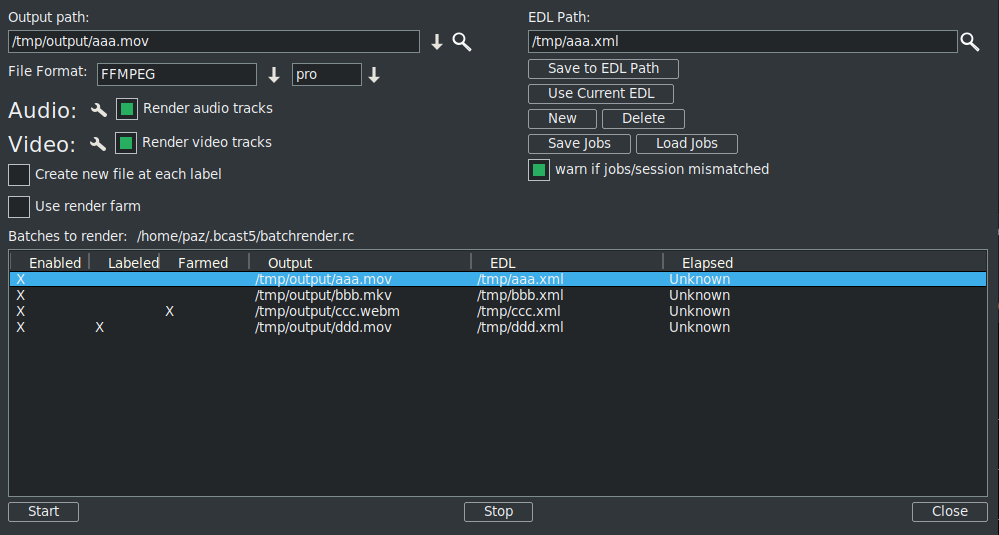
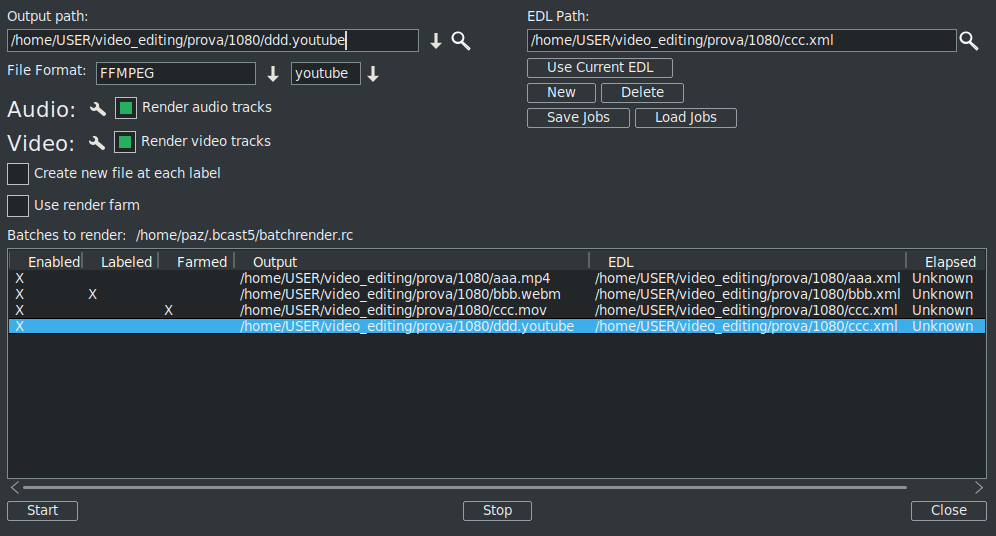
Andrea reworked Batch Render for changes + minor fixes

Changed region(s): [[0.0, 0.0, 1.0, 1.0], [0.5291, 0.0, 1.0, 0.3888], [0.4357, 0.0598, 0.4669, 0.0897]]

diff --git a/parts/Rendering.tex b/parts/Rendering.tex
@@ -693,7 +693,7 @@ a more efficient method of rendering. To use this feature you need to
 understand certain concepts.
 
 \begin{enumerate}
-	\item You must define a list of Batches (\textit{Job} \index{job}) before starting the rendering. This is created using the \textit{New} button and displayed in \textit{Batches to Render} dialog.
+	\item  You must define a list of Batches (\textit{Job} \index{job}) before starting the rendering. This is created using the \textit{New} button and displayed in \textit{Batches to Render} dialog.
 	\item Each batch consists of a source project already created in \CGG{}, e.g. \texttt{aaa.xml}, to which we assign the rendering parameters.
 	\begin{itemize}
 		\item to associate \texttt{aaa.xml} to the batch we use the \textit{EDL Path} input field.
@@ -732,7 +732,7 @@ called \textit{Batches to render}.  Above this are the configuration
 parameters for a single batch; a batch is simply a pairing of a
 project file with a choice of output file and render settings.
 
-Set the \textit{Output path}, \textit{File format}, \textit{Audio},
+It may be advisable to start with a \textit{Delete} so you don't have any problems. Set the \textit{Output path}, \textit{File format}, \textit{Audio},
 \textit{Video}, and \textit{Create new file at each label}
 parameters as if you were rendering a single file.  These parameters
 apply to only one batch.  In addition to the standard rendering
@@ -772,7 +772,25 @@ follows:
   job.
 \item[Elapsed:] the amount of time taken to render the batch if
   finished.  If field is empty, it did not run.
-\end{description} To start rendering from the first enabled batch,
+\end{description} 
+
+The \texttt{File $\rightarrow$ Batch Render} pulldown brings up the
+Batch Render window to be used for batch rendering as well as DVD/BD
+creation.  There are some additional buttons that can save time and
+mistakes.  These are described next.
+
+\begin{description}
+	\item[Save Jobs] when you have set up the batch jobs the way you
+	want and you think you may have to run them more than once, it is
+	beneficial to save the jobs for later use so you easily run them
+	again.
+	\item[Load Jobs] reload a previous set of saved jobs.  This can come
+	in handy if you did not have the time to render them when you
+	originally set them up, if you need to rerun, or if you got
+	interrupted.
+\end{description}
+
+To start rendering from the first enabled batch,
 hit \textit{Start}.  Once rendering, the main window shows the
 progress of the batch. After each batch finishes, the elapsed column
 in the batch list is updated and the next batch is rendered until
@@ -798,6 +816,84 @@ program, execute:
 \texttt{batchjob.xml}.  When invoked with these parameters, \CGG{}
 will start up and perform the rendering jobs in that list, without
 creating its usual windows.
+
+\subsection{Advanced features}%
+\label{sub:advanced_features}
+\index{batch rendering!more options}
+
+\textbf{Warning}: one of these advanced functions overwrites the original EDL, which will then be lost!
+
+Although the operation of Batch Rendering in \CGG{} is similar to that of other NLEs, there is one big difference that we need to take into account. The render setup is not done on a project-by-project basis, which are then brought into the Batch window to be rendered automatically. The setup must be done in the Batch rendering window, where various projects are loaded and set up. In the case of similar projects, derived from a single EDL with some variation, this mode offers the possibility of altering the projects without having to open each individual project, make the changes, set up the rendering, save and import into the Batch window. The procedure is to select the batch we want to modify in the Batches to render window; operate on the currently open timeline (even if it does not correspond to the one we want to modify) making the desired changes and then press the \textit{Save to EDL path} button. Thus the chosen batch, while retaining its original name, will now contain the modified project. Since this possibility destroys the original EDL overwriting it with the modified one, you must be very careful. This procedure is convenient in case the batches are similar, i.e. they are variations of the same EDL, where we want to experiment with other effects, other output formats or when trying out various cuts of a DVD/BD before the final production. It might also be useful to use an \textit{active region} of the timeline, so as to speed up rendering times but still have an indicative result for comparison. Instead operating on different projects, we can do a \textit{save as...} of the project on the timeline to have a new EDL with a new name and then replace it with the batch selected in the joblist using the \textit{Use Current EDL} button. The new project (with its name) overwrites the original project.
+
+The \textit{Save to EDL Path} and \textit{Use Current EDL} buttons
+can be valuable tools for advanced usage or for developers doing
+testing.  Description of how you can expect them to work will help
+to illustrate how to take advantage of their capabilities (figure~\ref{fig:batch-advanced}):
+
+\begin{figure}[htpb] \centering
+	\includegraphics[width=0.7\linewidth]{batch-advanced.png}
+	\caption{New Buttons with Unsafe GUI in batchrender}
+	\label{fig:batch-advanced}
+\end{figure}
+
+
+\begin{description}
+\item[Save to EDL Path] Warning: this function overwrites the contents of the original EDL with new data, keeping the name of the original. If we don't know exactly what we're doing we may lose the original project. If you have made a change to the EDL, use
+  this button to save the changes so that they will be used in the
+  render operation.  Although you can get the same results by using
+  \texttt{File $\rightarrow$ Save\dots}, this capability was initially
+  added to assist developers in testing the batch jobs needed to
+  create dvd/bluray media as it keeps the work focused in a single
+  window and retains the original job name.  An example --you have
+  everything all set up with a new job in the Batch Render window
+  using \texttt{generic.xml} for the EDL path and with a job name of
+  \texttt{original\_name.xml}.  Then you realize that you forgot to
+  cut out a section in the media that is not wanted in the final
+  product.  You can cut that out and then \textit{Save to EDL Path} so
+  your change will be in effect for the rendering.  Without this
+  button, you would be using the EDL you started with and the cut
+  would be ignored.  Alternatively, if the cut changes are saved via
+  \texttt{File $\rightarrow$ Save as}\dots with a filename of
+  \texttt{new.xml} and then you use \textit{Save to EDL Path}, the
+  current highlighted job displayed in the window as
+  \texttt{original\_name.xml} will be replaced with \texttt{new.xml}.
+  However, it is important to note that the result will be saved with
+  the name \texttt{original\_name} – that is, the new content from
+  \texttt{new.xml} but with the old name of
+  \texttt{original\_name.xml}. To have this functionality we have to enable the checkbox in \texttt{Settings $\rightarrow$ Preferences $\rightarrow$ Appearance} tab; section \textit{Dangerous:} and unchecked (default) \textit{Unsafe GUI in batchrender}.
+\item[Use Current EDL] Warning: this function overwrites the contents of the original EDL with new project. If we don't know exactly what we're doing we may lose the original project. if you are working on media and still testing
+  out the results, you can take advantage of this click-box to quickly
+  get results.  Basically, you change the media, save that change with
+  another name (in order to preserve the original name in case you
+  don't like the changes), and press \textit{Use Current EDL}.  As an
+  example, a user creates a new job in the Batch Render window using
+  the current media, previously defined in generic.xml, with the EDL
+  path of \texttt{generic.xml}.  The user then changes the media on
+  the timeline, saves the changes via \texttt{File $\rightarrow$ Save
+    as\dots} with a new name, such as \texttt{new\_name.xml}, and then
+  clicks on \textit{Use Current EDL}.  In this case, the EDL path
+  listbox will be automatically updated to the \texttt{new\_name.xml}
+  and the current existing highlighted job will be replaced with the
+  \texttt{new\_name.xml} in the EDL column.
+\item[Warn if Jobs/Session mismatched] Warning: It is better to keep this function unchecked because it is only needed in case of changes on the original EDL. By default it is hidden and is shown only if we enable the checkbox in \texttt{Settings $\rightarrow$ Preferences $\rightarrow$ Appearance} tab; section \textit{Dangerous:} and checked \textit{Unsafe GUI in batchrender}. After you set up your render
+  and press Start, the program checks to see if the current EDL
+  session matches your Batch Render job.  If the EDL has been changed
+  since the batch job was created, it warns you so that you have the
+  opportunity to \textit{Save to EDL} path to record those changes.
+  Otherwise, you can dismiss that warning box, disable the warning
+  message by unchecking the box and use the original values.  If you
+  never want to be warned about the mismatches, leave the box
+  unchecked (figure~\ref{fig:batch02}). It is advisable to keep it unchecked because it can cause problems.
+\end{description}
+
+\begin{figure}[htpb] \centering
+	\includegraphics[width=0.9\linewidth]{batch02.png}
+	\caption{Batch render with the 4 ghosted buttons on the right side
+		+ the Warning message below}
+	\label{fig:batch02}
+\end{figure}
+
+A very clear tutorial on these features can be found \href{https://linuxvideoediting.blogspot.com/2021/01/save-edl-path-use-current-edl-in-cinelerra-gg.html}{here}\protect\footnote{credit Igor Vladimirsky}; in Russian but easily translatable with DeepL or similar.
 
 \subsection{Command Line Rendering}%
 \label{sub:command_line_rendering}
@@ -826,84 +922,6 @@ On the command line run:
 \begin{lstlisting}[style=sh]
 cin -r
 \end{lstlisting}
-
-\subsection{More about Save/Use EDL and Save/Load Jobs}%
-\label{sub:more_save_use_edl_jobs}
-\index{batch rendering!more options}
-
-The \texttt{File $\rightarrow$ Batch Render} pulldown brings up the
-Batch Render window to be used for batch rendering as well as DVD/BD
-creation.  There are some additional buttons that can save time and
-mistakes.  These are described next.
-
-The \textit{Save to EDL Path} and \textit{Use Current EDL} buttons
-can be valuable tools for advanced usage or for developers doing
-testing.  Description of how you can expect them to work will help
-to illustrate how to take advantage of their capabilities.
-
-\begin{description}
-\item[Save to EDL Path] if you have made a change to the EDL, use
-  this button to save the changes so that they will be used in the
-  render operation.  Although you can get the same results by using
-  \texttt{File $\rightarrow$ Save\dots}, this capability was initially
-  added to assist developers in testing the batch jobs needed to
-  create dvd/bluray media as it keeps the work focused in a single
-  window and retains the original job name.  An example --you have
-  everything all set up with a new job in the Batch Render window
-  using \texttt{generic.xml} for the EDL path and with a job name of
-  \texttt{original\_name.xml}.  Then you realize that you forgot to
-  cut out a section in the media that is not wanted in the final
-  product.  You can cut that out and then \textit{Save to EDL Path} so
-  your change will be in effect for the rendering.  Without this
-  button, you would be using the EDL you started with and the cut
-  would be ignored.  Alternatively, if the cut changes are saved via
-  \texttt{File $\rightarrow$ Save as}\dots with a filename of
-  \texttt{new.xml} and then you use \textit{Save to EDL Path}, the
-  current highlighted job displayed in the window as
-  \texttt{original\_name.xml} will be replaced with \texttt{new.xml}.
-  However, it is important to note that the result will be saved with
-  the name \texttt{original\_name} – that is, the new content from
-  \texttt{new.xml} but with the old name of
-  \texttt{original\_name.xml}.
-\item[Use Current EDL] if you are working on media and still testing
-  out the results, you can take advantage of this click-box to quickly
-  get results.  Basically, you change the media, save that change with
-  another name (in order to preserve the original name in case you
-  don't like the changes), and press \textit{Use Current EDL}.  As an
-  example, a user creates a new job in the Batch Render window using
-  the current media, previously defined in generic.xml, with the EDL
-  path of \texttt{generic.xml}.  The user then changes the media on
-  the timeline, saves the changes via \texttt{File $\rightarrow$ Save
-    as\dots} with a new name, such as \texttt{new\_name.xml}, and then
-  clicks on \textit{Use Current EDL}.  In this case, the EDL path
-  listbox will be automatically updated to the \texttt{new\_name.xml}
-  and the current existing highlighted job will be replaced with the
-  \texttt{new\_name.xml} in the EDL column.
-\item[Save Jobs] when you have set up the batch jobs the way you
-  want and you think you may have to run them more than once, it is
-  beneficial to save the jobs for later use so you easily run them
-  again.
-\item[Load Jobs] reload a previous set of saved jobs.  This can come
-  in handy if you did not have the time to render them when you
-  originally set them up, if you need to rerun, or if you got
-  interrupted.
-\item[Warn if Jobs/Session mismatched] After you set up your render
-  and press Start, the program checks to see if the current EDL
-  session matches your Batch Render job.  If the EDL has been changed
-  since the batch job was created, it warns you so that you have the
-  opportunity to \textit{Save to EDL} path to record those changes.
-  Otherwise, you can dismiss that warning box, disable the warning
-  message by unchecking the box and use the original values.  If you
-  never want to be warned about the mismatches, leave the box
-  unchecked (figure~\ref{fig:batch02}).
-\end{description}
-
-\begin{figure}[htpb] \centering
-  \includegraphics[width=1.0\linewidth]{batch02.png}
-  \caption{Batch render with the 4 ghosted buttons on the right side
-    + the Warning message below}
-  \label{fig:batch02}
-\end{figure}
 
 \section{Background Rendering}%
 \label{sec:background_rendering}

diff --git a/parts/Loadandsave.tex b/parts/Loadandsave.tex
@@ -378,9 +378,10 @@ as long as you only loaded a different file and have performed no editing operat
 \textbf{Perpetual session} is very useful for working on a project over many days so you can just quit before shutting down and the next time you start up \CGG{} you will be right back where you left off.  
 You will retain all of your undo’s and redo’s.  
 The binary file name is \texttt{\$HOME/.bcast5/perpetual.dat} and as long as \texttt{Settings $\rightarrow$ Preferences}, the Appearance tab has the Flag \textit{Perpetual session} set this capability takes effect.  
-It is very important to understand that this is not the same as the continuously editing- operation-updated \texttt{backup.xml} file.  
-The perpetual.dat file is \textit{only} updated when you Quit \CGG{} in the normal manner.  
-Which means if you interrupt the program, or kill it, or there is a segv or system crash, the \texttt{perpetual.dat} file will only reflect the state of your project from when you last started \CGG{}, and none of the editing/undo’s/redo’s you executed during the current session which was not ended normally.
+It is very important to understand that this is not the same as the continuously editing- operation-updated \texttt{backup.xml} file which is still operating as usual.  
+The perpetual.dat file is updated so that when you Quit \CGG{} in the normal manner,
+interrupt the program, kill the program, or there is a segv or system crash, the \texttt{perpetual.dat} file still reflects the state of your project. This means the editing/undo’s/redo’s you executed during the current session should still be available on a restart with the exception of any edit
+that may not have had a chance to be written on disk before an abnormal stoppage.
 \vspace{1ex}
 
 Some notes to keep in mind about Perpetual session are:
@@ -393,7 +394,7 @@ Some notes to keep in mind about Perpetual session are:
     after stopping \CGG{}, delete the current \texttt{\$HOME/.bcast5/perpetual.dat} file
     \item only session data is backed up (not program feature setup)
     \item the files backup.xml and backup.prev will operate the same as before so that if there is a crash, you
-    will want to use \texttt{File $\rightarrow$ Load backup} in order to continue where you were interrupted.
+    can still use \texttt{File $\rightarrow$ Load backup} in order to continue where you were interrupted.
     \item to start \CGG{} without using your Perpetual session data even if enabled, keyin: /your\_cinelerra\_path\texttt{/bin/cin -S}
 \end{itemize}
 

diff --git a/parts/Windows.tex b/parts/Windows.tex
@@ -293,19 +293,19 @@ There are numerous methods to cut and paste in \emph{drag and drop mode} by sett
 a selected region or using the Copy/Paste Behavior as outlined in~\ref{sub:copy_paste_behavior}. 
 In this mode, clicking the LMB in the timeline does not reposition the \textit{Insertion Point}. 
 
+\begin{figure}[htpb]
+	\centering
+	\includegraphics[width=0.4\linewidth]{i-beam.png}
+	\caption{I-beam + in/out  +  labels}
+	\label{fig:i-beam}
+\end{figure}
+
 When the I-beam is highlighted, you are in \emph{cut and paste mode}.
 In cut and paste mode, clicking the LMB in the timeline does reposition the \textit{Insertion Point}. 
 Double clicking in the timeline selects the entire edit the cursor is over, i.e.\ that column. 
 Dragging in the timeline with the LMB pressed down, highlights a selected region and this is the region that is affected by cut
 and paste operations.  It is also the playback range used for the subsequent playback operation. 
 Holding down the Shift key while clicking in the timeline extends the highlighted region.
-
-\begin{figure}[htpb]
-    \centering
-    \includegraphics[width=0.4\linewidth]{i-beam.png}
-    \caption{I-beam + in/out  +  labels}
-    \label{fig:i-beam}
-\end{figure}
 
 \subsection{In/Out Points}%
 \label{sub:in_out_points}
@@ -354,6 +354,12 @@ Some of the useful operations concerning the In/Out pointers are listed next.
     \item[Shift-Ctrl] with a transport button (e.g. Fast Forward), loops play between In/Out points
     \item[Ctrl-t]  clears both In/Out points
 \end{description}
+
+\subsection{Guide on timeline}%
+\label{sub:guide_timeline}
+\index{guide lines}
+
+It can be useful to have visual reference points on the timeline to help you position edits relative to other tracks. For example in manual synchronization of audio and video. You can set two points on the timeline with In/Out points or by selecting a range in Cut and Paste mode. Now we use \texttt{Settings $\rightarrow$ Loop Playback} (Shift - L) to make two vertical green lines appear at the edges of the selection. Originally this function is used to limit the playback within this range, but we can take advantage of the fact that the green lines remain even when we move the insertion point or delete the In/Out points or deselect the range. So they can be used as a visual reference when we want to move the edits precisely. To delete these guides press \textit{Shift-L} again.
 
 \subsection{Labels}%
 \label{sub:labels}

diff --git a/parts/Shortcuts.tex b/parts/Shortcuts.tex
@@ -130,6 +130,7 @@ The Main window (also called the program window) consists of pulldown menus, but
   & -- Typeless keyfrs &  & Toggle typeless keyframes mode. \\
   & Save settings now & Ctrl-Shift-S & Save \CGG{}\_rc. \\
   & Loop Playback & Shift-L & Set loop playback region to selection/all. \\
+  & Guide on timeline & Shift-L & Create a guide on timeline. \\
   & Set bkg render & Shift-G & Toggle background rendering. \\
   \midrule
   \textcolor{CinBlueText}{View} & -- Show assets & 0 & Toggle show asset data. \\
